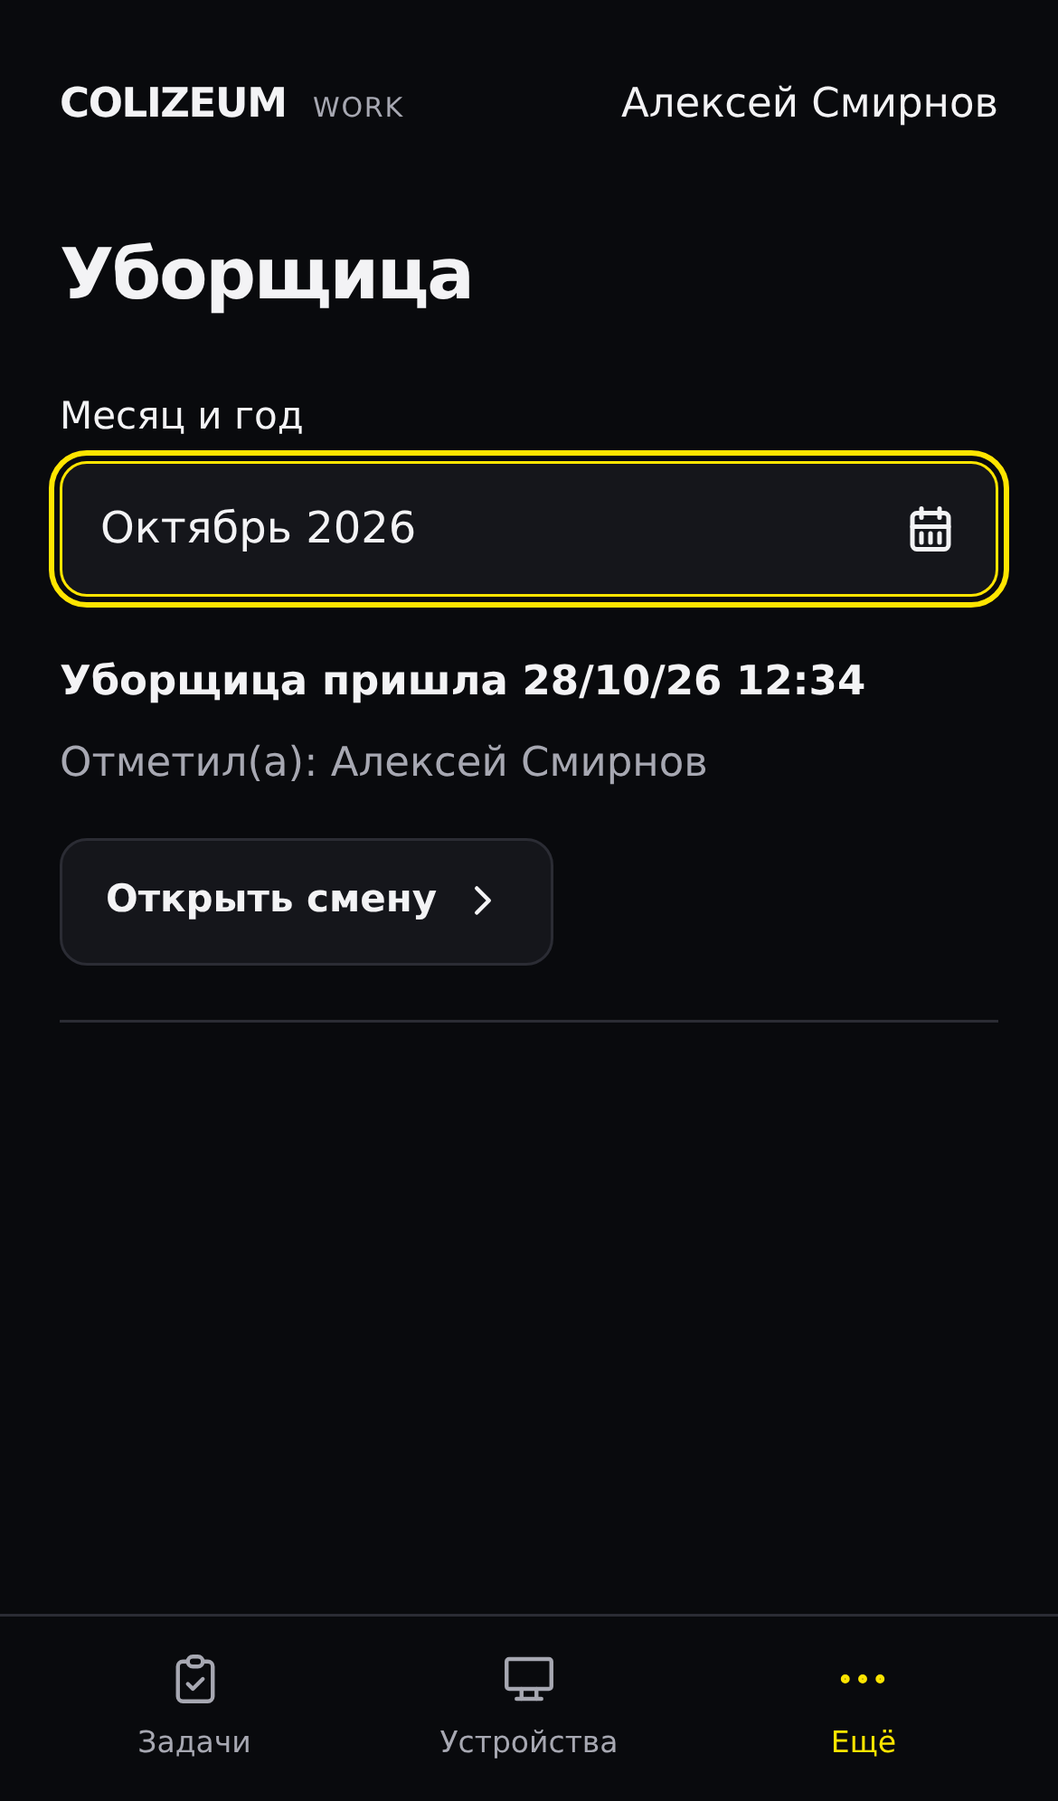
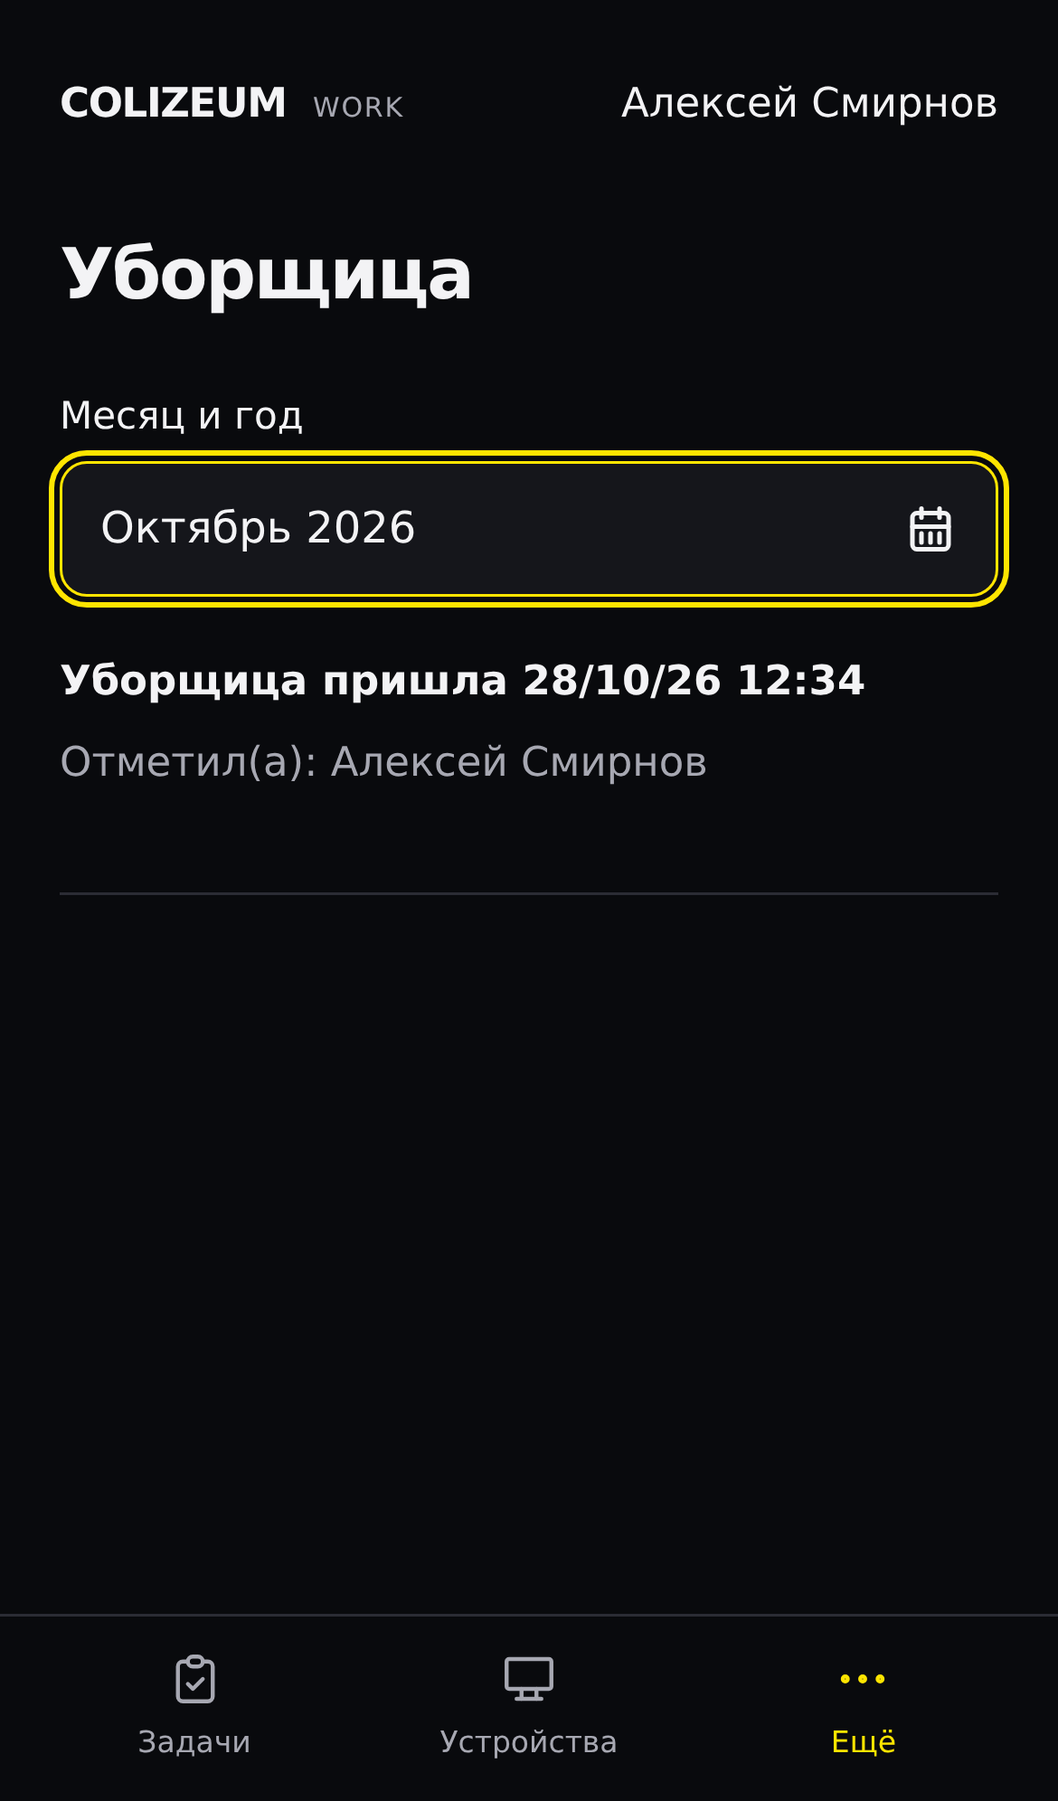
edited cleaner tab

diff --git a/frontend/src/pages/Workspace.tsx b/frontend/src/pages/Workspace.tsx
@@ -679,7 +679,7 @@ function WorkspaceView({ workspace }: { workspace: WorkspaceProps }) {
                       },
                       {
                         id: "history" as const,
-                        label: "История смен",
+                        label: "История смен/задач",
                         icon: IconHistory,
                       },
                       {
@@ -692,13 +692,13 @@ function WorkspaceView({ workspace }: { workspace: WorkspaceProps }) {
                         label: "Уведомления",
                         icon: IconBell,
                       },
-                      {
-                        id: "cleaner" as const,
-                        label: "Уборщица",
-                        icon: IconBrush,
-                      },
                       ...(isManager
                         ? [
+                            {
+                              id: "cleaner" as const,
+                              label: "Уборщица",
+                              icon: IconBrush,
+                            },
                             {
                               id: "photo-settings" as const,
                               label: "Фотографии отчёта",
@@ -735,13 +735,18 @@ function WorkspaceView({ workspace }: { workspace: WorkspaceProps }) {
                   onSave={(action, message) => save(action, message)}
                 />
               )}
-              {view === "cleaner" && (
+              {view === "cleaner" && isManager && (
                 <CleanerHistory
                   initialMonth={cleanerMonth}
                   onMonthChange={setCleanerMonth}
                   onBack={back}
-                  onOpenShift={(id) => setLinkedRecord({ kind: "shift", id })}
                 />
+              )}
+              {view === "cleaner" && !isManager && (
+                <p role="alert">
+                  История уборщицы доступна только управляющим и
+                  суперпользователям.
+                </p>
               )}
               {view === "schedule" && (
                 <SchedulePage
@@ -821,7 +826,7 @@ function WorkspaceView({ workspace }: { workspace: WorkspaceProps }) {
                     Назад в «Ещё»
                   </button>
                   <div className="cp-page-heading">
-                    <h1>История смен</h1>
+                    <h1>История смен/задач</h1>
                   </div>
                   <div className="cp-tabs cp-history-tabs">
                     <button

diff --git a/frontend/tests/e2e/app.spec.ts b/frontend/tests/e2e/app.spec.ts
@@ -93,7 +93,31 @@ for (const options of [{ noShift: true }, { staff: true }, { owner: true }]) {
   });
 }
 
-test("cleaner history filters month and opens the exact shift", async ({
+test("administrators cannot open cleaner history from More or a direct link", async ({
+  page,
+}) => {
+  await setup(page);
+  let historyRequests = 0;
+  page.on("request", (request) => {
+    if (request.url().includes("/api/cleaner-visits/")) historyRequests += 1;
+  });
+  await page.goto("/");
+  await page.getByRole("button", { name: "Ещё", exact: true }).click();
+  await expect(
+    page.getByRole("button", { name: "Уборщица", exact: true }),
+  ).toHaveCount(0);
+  await expect(
+    page.getByRole("button", { name: "История смен/задач", exact: true }),
+  ).toBeVisible();
+  await page.goto("/?cleaner=2026-10");
+  await expect(page.getByRole("alert")).toContainText(
+    "только управляющим и суперпользователям",
+  );
+  await expect(page.getByLabel("Месяц и год")).toHaveCount(0);
+  expect(historyRequests).toBe(0);
+});
+
+test("cleaner history filters month and shows only date time and administrator", async ({
   page,
 }, info) => {
   await setup(page, { staff: true });
@@ -114,18 +138,11 @@ test("cleaner history filters month and opens the exact shift", async ({
     path: info.outputPath("cleaner-history.png"),
     fullPage: true,
   });
-  await page
-    .getByRole("button", { name: "Открыть смену", exact: true })
-    .click();
   await expect(
-    page.getByRole("heading", { name: "Детали смены" }),
-  ).toBeVisible();
-  await expect(page.getByText("51 500 ₽", { exact: true })).toBeVisible();
-  await page.evaluate(() =>
-    (window as unknown as { testBack: () => void }).testBack(),
-  );
-  await expect(page.getByLabel("Месяц и год", { exact: true })).toHaveValue(
-    "2026-10",
+    page.getByRole("button", { name: "Открыть смену", exact: true }),
+  ).toHaveCount(0);
+  await expect(page.locator(".cp-cleaner-record")).toContainText(
+    "Алексей Смирнов",
   );
 });
 

diff --git a/frontend/tests/e2e/stack.spec.ts b/frontend/tests/e2e/stack.spec.ts
@@ -311,13 +311,16 @@ test("real nginx, PostgreSQL, Django, and Mini App complete the staff workflows"
       manager.page.getByText("1\u00a0050 ₽", { exact: true }),
     ).toBeVisible();
     await expect(
-      manager.page.getByRole("button", { name: "История смен", exact: true }),
+      manager.page.getByRole("button", {
+        name: "История смен/задач",
+        exact: true,
+      }),
     ).toHaveCount(0);
     await manager.page
       .getByRole("button", { name: "Ещё", exact: true })
       .click();
     await manager.page
-      .getByRole("button", { name: "История смен", exact: true })
+      .getByRole("button", { name: "История смен/задач", exact: true })
       .click();
     await expect(manager.page.locator(".cp-history-total")).toContainText(
       "600 ₽",
@@ -373,16 +376,9 @@ test("real nginx, PostgreSQL, Django, and Mini App complete the staff workflows"
       `${process.env.STACK_BASE_URL}/?cleaner=${new Date().toLocaleDateString("sv-SE", { timeZone: "Europe/Moscow" }).slice(0, 7)}`,
     );
     await expect(owner.page.getByText(/Уборщица пришла/)).toBeVisible();
-    await owner.page
-      .getByRole("button", { name: "Открыть смену", exact: true })
-      .click();
     await expect(
-      owner.page.getByRole("heading", { name: "Детали смены" }),
-    ).toBeVisible();
-    await expect(owner.page.getByText("600 ₽", { exact: true })).toBeVisible();
-    await expect(
-      owner.page.getByRole("img", { name: "Чек закрытия смены", exact: true }),
-    ).toBeVisible();
+      owner.page.getByRole("button", { name: "Открыть смену", exact: true }),
+    ).toHaveCount(0);
     await owner.page.goto(`${process.env.STACK_BASE_URL}/?expense=1`);
     await expect(
       owner.page.getByRole("heading", { name: "Расход из кассы" }),

diff --git a/frontend/src/components/ShiftEvents.tsx b/frontend/src/components/ShiftEvents.tsx
@@ -2,7 +2,6 @@ import { useEffect, useState } from "react";
 import {
   IconArrowLeft,
   IconCalendarMonth,
-  IconChevronRight,
   IconRefresh,
 } from "@tabler/icons-react";
 import { request } from "../lib/api";
@@ -181,18 +180,15 @@ export function NotificationDetails({
 
 interface CleanerVisit {
   id: string;
-  shiftId: string;
   adminName: string;
   occurredAt: string;
 }
 export function CleanerHistory({
   initialMonth,
-  onOpenShift,
   onMonthChange,
   onBack,
 }: {
   initialMonth?: string;
-  onOpenShift: (id: string) => void;
   onMonthChange: (value: string) => void;
   onBack: () => void;
 }) {
@@ -260,13 +256,6 @@ export function CleanerHistory({
                 Уборщица пришла {cleanerDateTime(visit.occurredAt)}
               </strong>
               <p>Отметил(а): {visit.adminName}</p>
-              <button
-                className="cp-button cp-button-secondary"
-                onClick={() => onOpenShift(visit.shiftId)}
-              >
-                Открыть смену
-                <IconChevronRight size={18} />
-              </button>
             </div>
           ))}
         </div>

diff --git a/backend/workflows/test_shift_events.py b/backend/workflows/test_shift_events.py
@@ -160,11 +160,12 @@ class ShiftEventTests(APITestCase):
             report = Report.objects.create(admin=admin, date=timezone.localdate(), cash=0)
             shift = Shift.objects.create(admin=admin, shift_type='day', report=report, closed_at=timezone.now())
             CleanerVisit.objects.create(admin=admin, shift=shift, occurred_at=datetime.fromisoformat(stamp))
-        self.assertEqual(len(self.client.get('/api/cleaner-visits/?year=2026&month=10').data['results']), 1)
-        self.assertEqual(len(self.client.get('/api/cleaner-visits/?year=2026&month=11').data['results']), 1)
+        self.assertEqual(self.client.get('/api/cleaner-visits/?year=2026&month=10').status_code, 403)
+        self.assertEqual(self.client.get('/api/cleaner-visits/?year=2026&month=11').status_code, 403)
         for user in (self.manager, self.owner):
             self.client.force_authenticate(user)
             self.assertEqual(len(self.client.get('/api/cleaner-visits/?year=2026&month=10').data['results']), 2)
+            self.assertEqual(len(self.client.get('/api/cleaner-visits/?year=2026&month=11').data['results']), 1)
         for params in ('year=no&month=10', 'year=2026&month=13'):
             self.assertEqual(self.client.get('/api/cleaner-visits/?' + params).status_code, 400)
         self.admin.delete()
@@ -191,6 +192,19 @@ class ShiftEventTests(APITestCase):
             self.assertTrue(deliver_one(send))
             send.assert_not_called()
         self.assertEqual(TelegramNotification.objects.get().status, 'failed')
+
+    def test_admin_cannot_read_past_cleaner_details_but_can_mark_active_shift(self):
+        pk = self.open()
+        self.assertEqual(self.client.post(f'/api/shifts/{pk}/cleaner/', {'confirmed': True}).status_code, 201)
+        self.assertIsNotNone(self.client.get('/api/workspace/').data['state']['shift']['cleanerVisitedAt'])
+        self.close(pk)
+        workspace = self.client.get('/api/workspace/').data['state']
+        self.assertIsNone(workspace['shifts'][0]['cleanerVisitedAt'])
+        self.assertFalse(any(item['kind'] == 'cleaner' for item in workspace['activity']))
+        self.assertIsNone(self.client.get(f'/api/shifts/{pk}/').data['cleanerVisitedAt'])
+        self.assertEqual(self.client.get('/api/cleaner-visits/').status_code, 403)
+        self.client.force_authenticate(self.manager)
+        self.assertIsNotNone(self.client.get(f'/api/shifts/{pk}/').data['cleanerVisitedAt'])
 
 
 class CleanerConcurrencyTests(TransactionTestCase):

diff --git a/backend/workflows/presentation.py b/backend/workflows/presentation.py
@@ -55,12 +55,12 @@ def task_data(task):
     }
 
 
-def shift_data(shift):
+def shift_data(shift, include_cleaner=True):
     report = shift.report
     cleaner = getattr(shift, 'cleaner_visit', None)
     return {
         'id': str(shift.pk), 'adminId': participant_id(shift, 'admin'), 'type': shift.shift_type,
-        'adminName': participant_name(shift, 'admin'), 'cleanerVisitedAt': iso(cleaner.occurred_at) if cleaner else None,
+        'adminName': participant_name(shift, 'admin'), 'cleanerVisitedAt': iso(cleaner.occurred_at) if cleaner and include_cleaner else None,
         'openedAt': iso(shift.opened_at), 'closedAt': iso(shift.closed_at),
         'photoRequirements': shift.photo_requirements,
         **({'balance': float(CashRegister.objects.filter(pk=1).values_list('balance', flat=True).first() or 0)} if not report else {}),
@@ -81,7 +81,7 @@ def workspace_data(user):
     if not user.is_staff and not user.is_superuser:
         history = history.filter(admin=user)
         expenses = expenses.filter(admin=user)
-        activity = activity.filter(Q(actor=user) | Q(task__assignee=user))
+        activity = activity.filter(Q(actor=user) | Q(task__assignee=user)).exclude(kind='cleaner')
     elif not user.is_superuser:
         activity = activity.filter(Q(actor=user) | Q(task__creator=user) | Q(task__assignee=user) | Q(task__isnull=True))
     people_ids = {user.pk}
@@ -118,7 +118,7 @@ def workspace_data(user):
         'state': {
             'photoSettings': {'reportFields': photo_settings.report_fields, 'version': photo_settings.version},
             'shift': shift_data(current) if current else None,
-            'shifts': sorted([shift_data(s) for s in history_list] + legacy, key=lambda s: s['openedAt'], reverse=True), 'tasks': [task_data(t) for t in task_list],
+            'shifts': sorted([shift_data(s, include_cleaner=user.is_staff or user.is_superuser) for s in history_list] + legacy, key=lambda s: s['openedAt'], reverse=True), 'tasks': [task_data(t) for t in task_list],
             'expenses': [{
                 'id': str(e.pk), 'adminId': participant_id(e, 'admin'),
                 'shiftId': str(e.work_shift_expense.shift_id) if hasattr(e, 'work_shift_expense') else None,

diff --git a/backend/workflows/views.py b/backend/workflows/views.py
@@ -72,7 +72,9 @@ class ShiftViewSet(viewsets.GenericViewSet):
         return shifts
 
     def retrieve(self, request, pk=None):
-        return Response(shift_data(self.get_object()))
+        shift = self.get_object()
+        include_cleaner = request.user.is_staff or request.user.is_superuser or shift.closed_at is None
+        return Response(shift_data(shift, include_cleaner=include_cleaner))
 
     @action(detail=True, methods=['post'])
     @idempotent_command
@@ -156,6 +158,8 @@ def expense_details(request, pk):
 
 @api_view(['GET'])
 def cleaner_history(request):
+    if not (request.user.is_staff or request.user.is_superuser):
+        raise PermissionDenied('История уборщицы доступна только управляющим и суперпользователям.')
     from django.utils import timezone
     now = timezone.now().astimezone(MOSCOW)
     class Period(serializers.Serializer):
@@ -167,8 +171,6 @@ def cleaner_history(request):
     visits = CleanerVisit.objects.select_related('admin__phone_number').annotate(
         year=ExtractYear('occurred_at', tzinfo=MOSCOW), month=ExtractMonth('occurred_at', tzinfo=MOSCOW),
     ).filter(**period)
-    if not (request.user.is_staff or request.user.is_superuser):
-        visits = visits.filter(admin=request.user)
     return Response({**period, 'results': [cleaner_data(visit) for visit in visits]})
 
 

diff --git a/README.md b/README.md
@@ -86,7 +86,7 @@
 
 ### 4. Посмотреть историю и настроить фотографии
 
-История смен доступна через **«Ещё → История смен»**. Откройте смену, чтобы увидеть разбивку платежей и общий итог. На странице задач управляющего остаётся баннер активной смены; история вынесена в «Ещё».
+История смен доступна через **«Ещё → История смен/задач»**. Откройте смену, чтобы увидеть разбивку платежей и общий итог. На странице задач управляющего остаётся баннер активной смены; история вынесена в «Ещё».
 
 В разделе **«Ещё → Фотографии отчёта»** управляющий или суперпользователь добавляет поля, задаёт названия снимков и отмечает обязательные. Изменения применяются к следующим сменам: открытая смена сохраняет требования, действовавшие в момент открытия.
 
@@ -111,13 +111,13 @@
 
 Во время собственной открытой смены администратор нажимает **«Уборщица»** на экране смены и подтверждает действие. Отмена ничего не сохраняет и не отправляет. После подтверждения кнопка показывает время отметки и становится недоступной до следующей смены на экране смены. Повторный запрос, перезагрузка или одновременное нажатие на нескольких устройствах не создают второй приход. Дата и время прихода отображаются в формате **дд/мм/гг чч:мм** по Москве.
 
-Сообщение управляющим и суперпользователям имеет вид **«Уборщица пришла 28/10/26 12:34»**; дату и время фиксирует сервер по Москве. Кнопка сообщения открывает историю за соответствующий месяц. В **«Ещё → Уборщица»** можно выбрать месяц и год, увидеть отметившего сотрудника и перейти к его смене. Администраторы видят свои отметки, управляющие и суперпользователи — все. История сохраняется после удаления учётной записи сотрудника.
+Сообщение управляющим и суперпользователям имеет вид **«Уборщица пришла 28/10/26 12:34»**; дату и время фиксирует сервер по Москве. Кнопка сообщения открывает историю за соответствующий месяц. В **«Ещё → Уборщица»** можно выбрать месяц и год, увидеть дату, время и отметившего сотрудника. Раздел и его API доступны только управляющим и суперпользователям; перехода к смене в этой истории нет. История сохраняется после удаления учётной записи сотрудника.
 
 <table>
   <tr><th>Приход отмечен один раз за смену</th><th>История с фильтром по месяцу и году</th></tr>
   <tr>
     <td><img src='docs/screenshots/10-cleaner-arrival.png' width='300' alt='После подтверждения кнопка Уборщица показывает время и становится недоступной до следующей смены'></td>
-    <td><img src='docs/screenshots/11-cleaner-history.png' width='300' alt='История прихода уборщицы: русский выбор месяца, год, время отметки и переход к смене'></td>
+    <td><img src='docs/screenshots/11-cleaner-history.png' width='300' alt='История прихода уборщицы для управляющих и суперпользователей: выбор месяца и года, дата, время и администратор'></td>
   </tr>
 </table>
 
